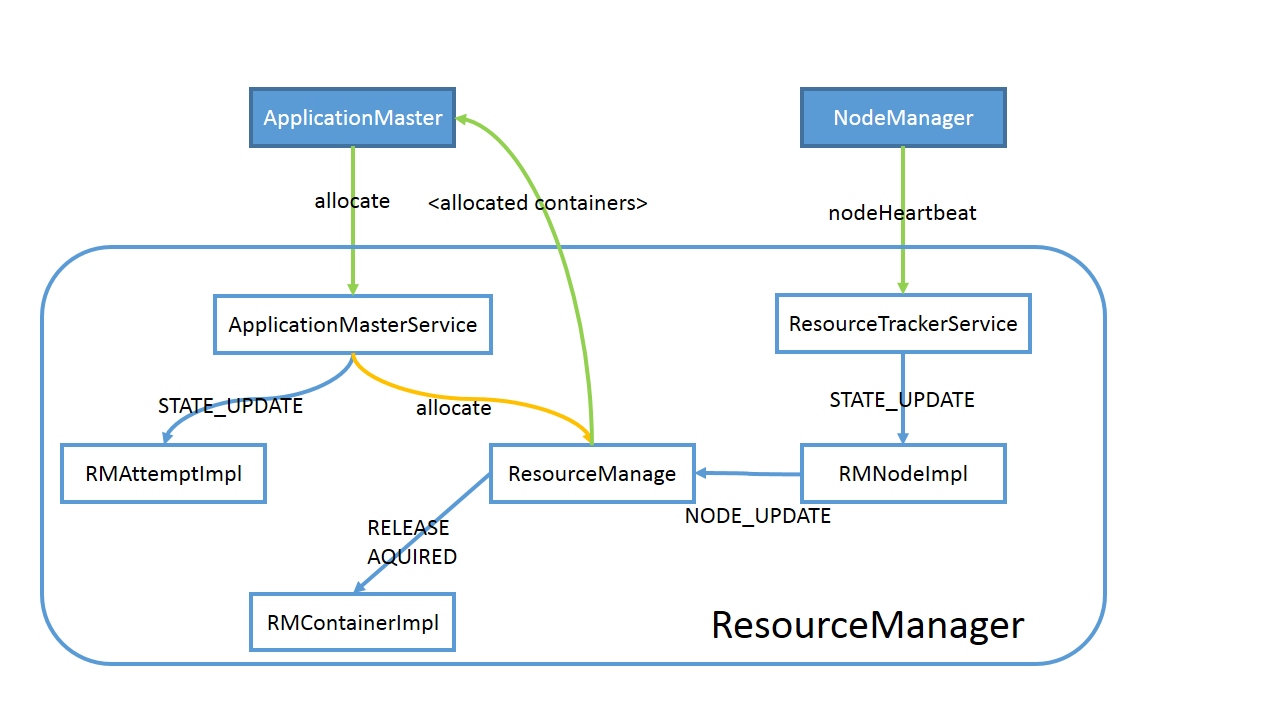
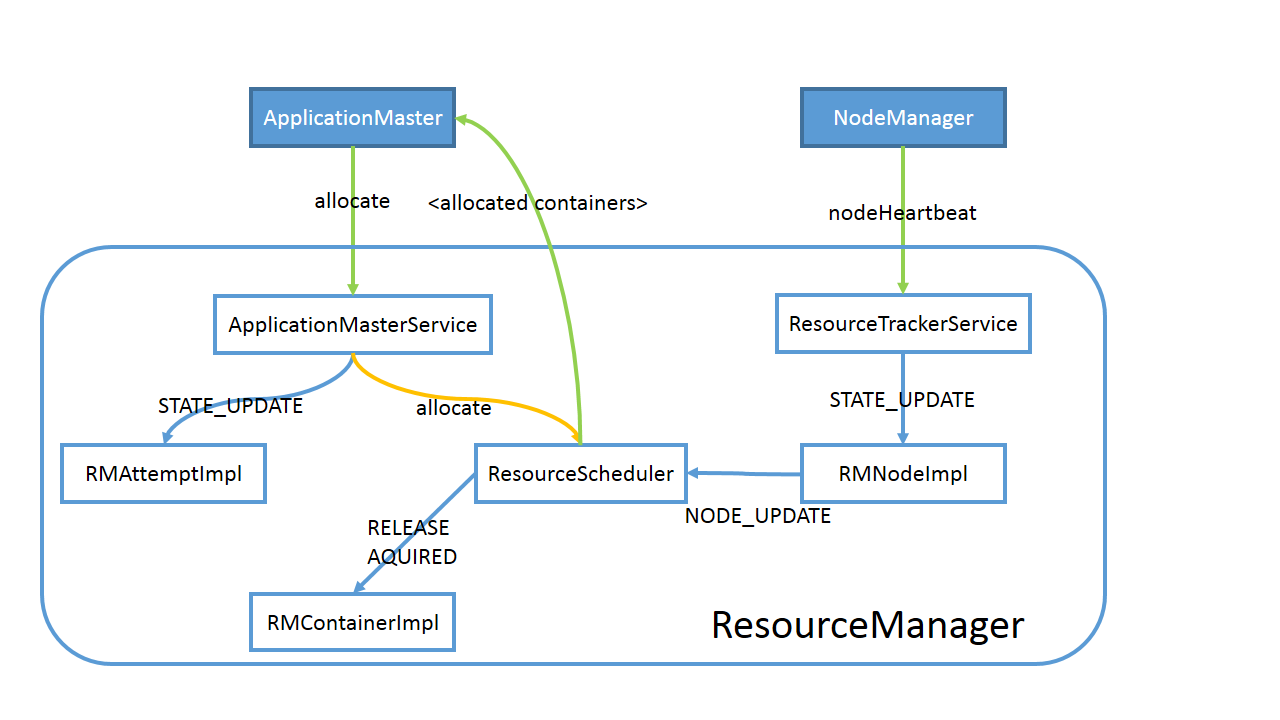
modify

diff --git a/docs/hadoop_yarn_rm_1.md b/docs/hadoop_yarn_rm_1.md
@@ -151,4 +151,6 @@ RM作业提交、管理功能
 整个过程分为两个阶段，循环：
 
 1. ApplicationMaster汇报资源需求并领取已经分配到的资源
-2. NodeManager向RM汇报各个container运行状态。如果RM发现这个NM上有空闲资源，进行一次分配，并将分配的资源保存到对应的数据结构(Allocation实例)，等待下一次ApplicationMaster发送心跳时获取。
+2. NodeManager向RM汇报各个container运行状态。如果RM发现这个NM上有空闲资源，进行一次分配，并将分配的资源保存到对应的数据结构，等待下一次ApplicationMaster发送心跳时获取。
+
+![](https://github.com/loull521/hadoop-yarn-src-read/raw/master/raw/pictures/rm/rm_allocate_container.png)
